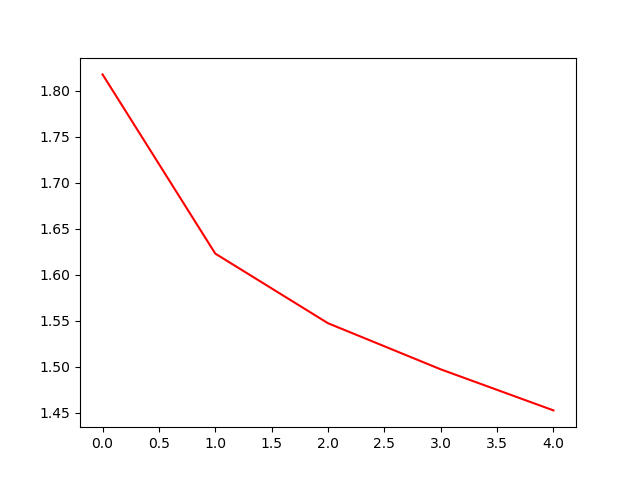
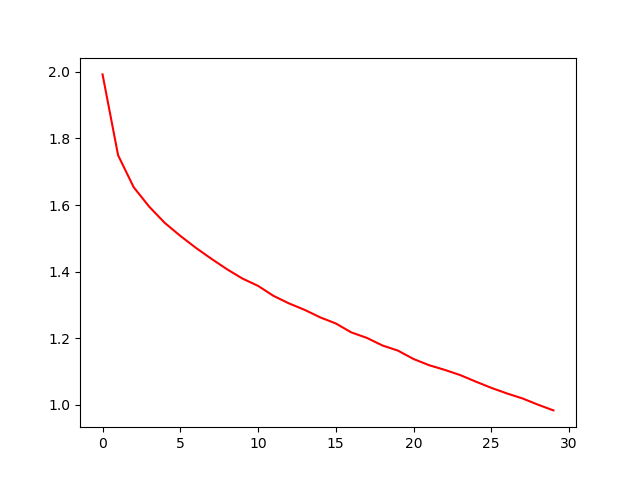
fixed bug on pytorch

diff --git a/pytorch/model.py b/pytorch/model.py
@@ -28,18 +28,18 @@ folder_name = '../figures'
 
 
 def test(model):
+    #torch.no_grad()
+    model.eval()
     x = DEV
     # forward
     y_hat = model(x[:, 1:])
     y = (x[:, 0] - 1).to(torch.long)  # fix the classes since torch expects classes 0-9
-    # y_one_hot = np.zeros((y.shape[0], NUMBER_OF_LABELS))
-    # y_one_hot[np.arange(y.shape[0]), y.to(torch.int64)] = 1
 
     loss = loss_function(y_hat, y)
-    average_loss = np.divide(loss.item(), DEV.shape[1])
+    average_loss = np.divide(loss.item(), DEV.shape[0])
     pred = y_hat.argmax(dim=1)
-    accuracy = np.divide((y == pred).sum().data, DEV.shape[1])
-    return loss, accuracy
+    accuracy = np.divide((y == pred).sum().data, DEV.shape[0])
+    return average_loss, accuracy
 
 def train(model):
     batch_size = 32
@@ -48,7 +48,17 @@ def train(model):
     devs_loss = []
     devs_accuracy = []
     num_of_training_examples = TRAIN.shape[0]
+    learning_rate = 0.00001
+    lr_decay = 0.99
+    # # test on validation set
+    # validation_loss, validation_accuracy = test(model)
+    # devs_accuracy.append(validation_accuracy)
+    # devs_loss.append(validation_loss)
+    # print("validation loss is:", validation_loss.item(), "\tvalidation accuracy is:", validation_accuracy.item() * 100,
+    #       "%")
     for k in range(num_of_epochs):
+        model.train()
+        #model.zero_grad()
         epoch_correct_predictions = 0
         epoch_loss = 0
         for i in range(0, num_of_training_examples, batch_size):
@@ -65,7 +75,7 @@ def train(model):
             batch_correct_predictions = (y == pred).sum().data
             batch_accuracy = np.divide(batch_correct_predictions, float(y.shape[0])) * 100
             epoch_correct_predictions += batch_correct_predictions
-            print("epoch", k, ",batch", np.divide(i, batch_size), ",loss is:", batch_loss.item(), ",batch accuracy is:", batch_accuracy.item(), "%")
+            #print("epoch", k, ",batch", np.divide(i, batch_size), ",loss is:", batch_loss.item(), ",batch accuracy is:", batch_accuracy.item(), "%")
 
             model.zero_grad()
             batch_loss.backward()
@@ -82,6 +92,12 @@ def train(model):
         devs_accuracy.append(validation_accuracy)
         devs_loss.append(validation_loss)
 
+        # print
+        print("epoch", k, "\n", "train loss is:", epochs_loss[k], "\ttrain epoch accuracy is:",
+              epochs_accuracy[k].item()*100, "%")
+        print("validation loss is:", validation_loss.item(), "\tvalidation accuracy is:", validation_accuracy.item()*100, "%")
+
+        learning_rate = learning_rate * lr_decay
 
     # draw plots for train
     plt.plot(np.arange(0, len(epochs_loss), 1), epochs_loss, 'r')
@@ -91,10 +107,10 @@ def train(model):
     plt.savefig(folder_name + "/train_accuracy.png")
     plt.clf()
     # draw plots for validation
-    plt.plot(np.arange(0, len(devs_loss), 1), epochs_loss, 'r')
+    plt.plot(np.arange(0, len(devs_loss), 1), devs_loss, 'r')
     plt.savefig(folder_name + "/validation_loss.png")
     plt.clf()
-    plt.plot(np.arange(0, len(devs_accuracy), 1), epochs_accuracy, 'r')
+    plt.plot(np.arange(0, len(devs_accuracy), 1), devs_accuracy, 'r')
     plt.savefig(folder_name + "/validation_accuracy.png")
     plt.clf()
 
@@ -102,12 +118,14 @@ my_model = nn.Sequential(
     torch.nn.Linear(3072, 1024),
     torch.nn.ReLU(),
     torch.nn.Dropout(0.3),
+    torch.nn.Linear(1024, 1024),
+    torch.nn.ReLU(),
+    torch.nn.Dropout(0.3),
     torch.nn.Linear(1024, 10)
 )
 
 loss_function = torch.nn.CrossEntropyLoss(reduction='sum')
-learning_rate = 0.0001
-num_of_epochs = 40
+num_of_epochs = 30
 
 train(my_model)
 torch.save(my_model.state_dict(), 'model_file')
